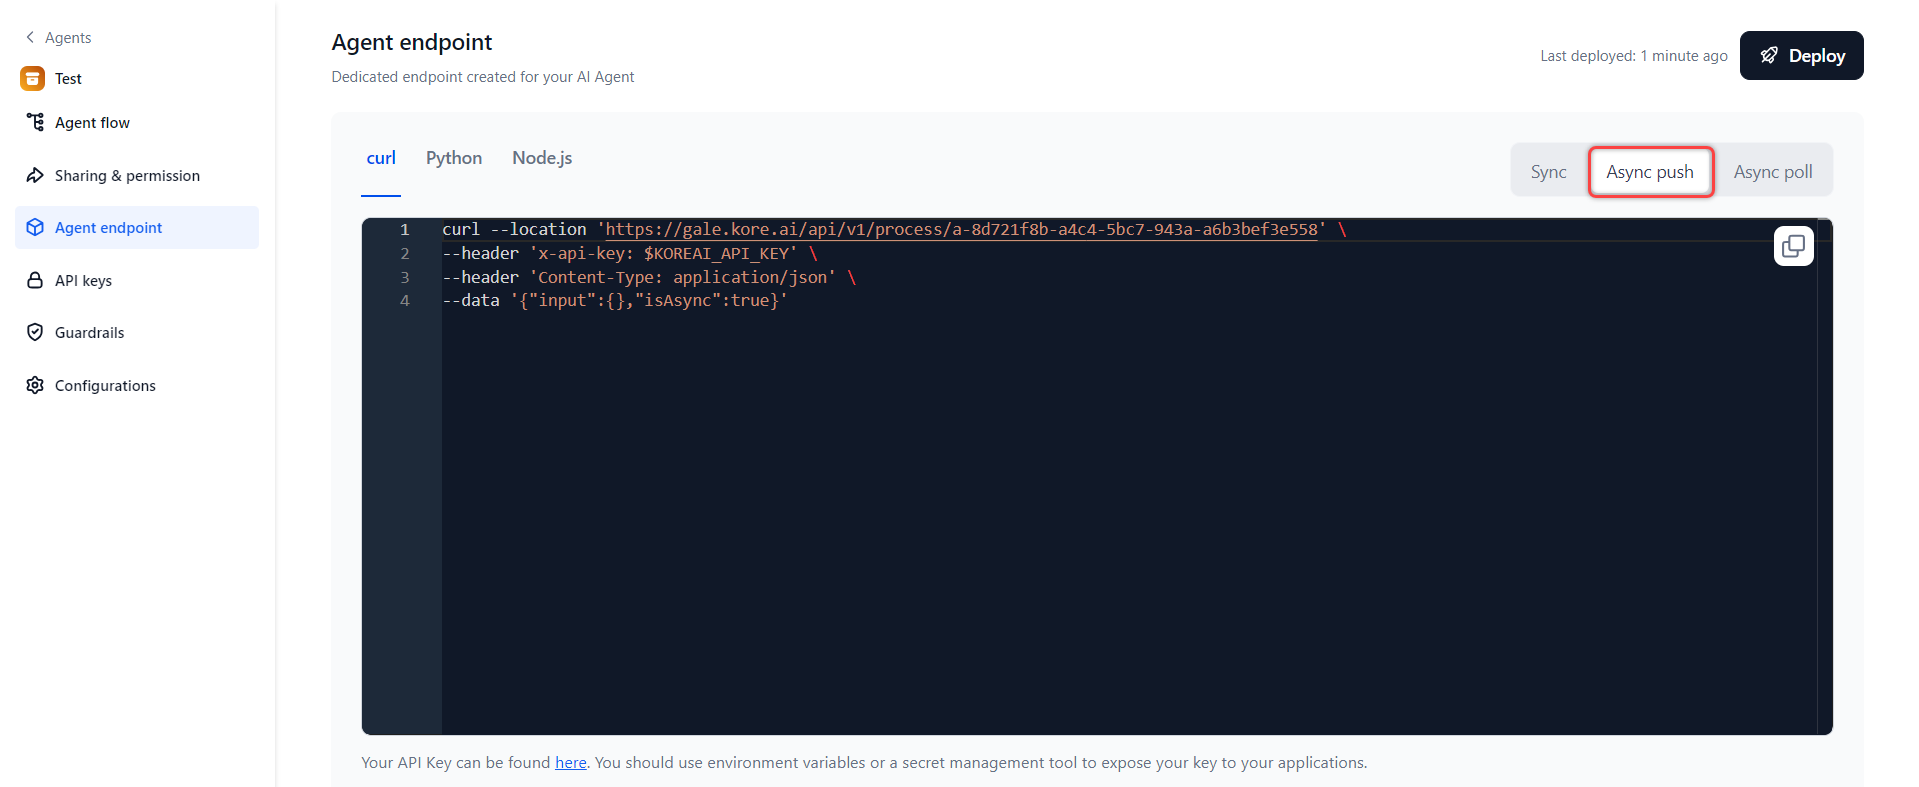
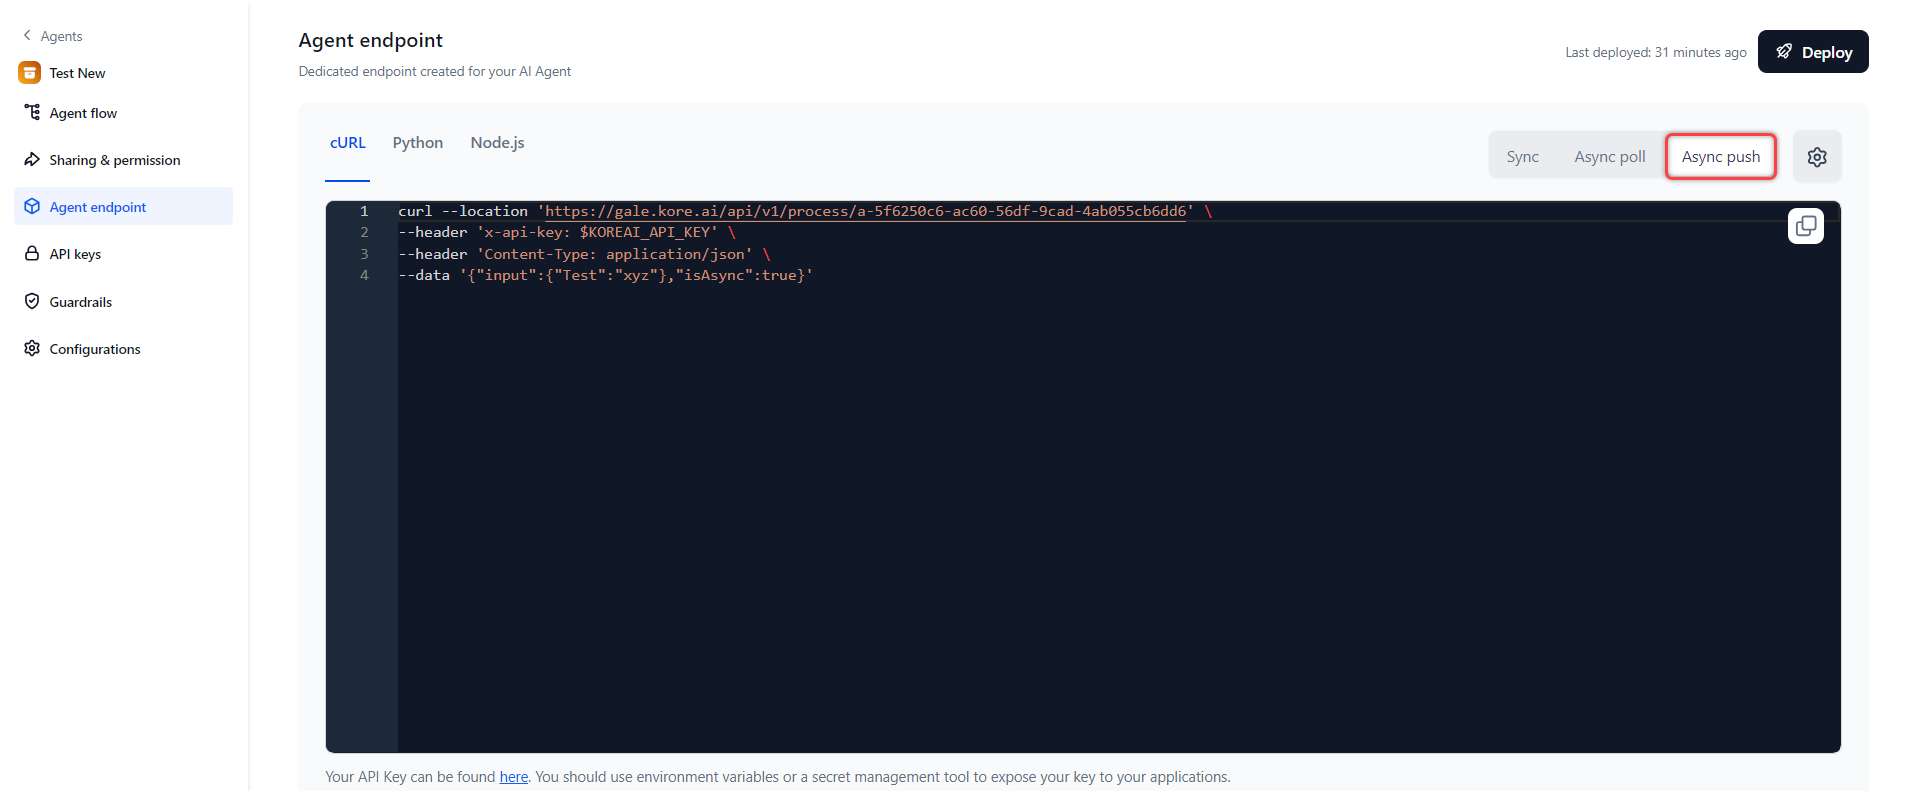
Updates for latest changes  (#49)
* Edited - Create an API Key

* API key generation edited

* Guardrails intro updated

* Guardrails overview edited

* minor edits

* further edits

* minor edits

* minor fixes

* minor edits

* Guardrails about page edits

* Add scanners

* Test Guardrails updated

* Guardrails' test resutls explained

* minor edits

* minor edits

* manage guardrails edited

* About Model's page edited

* Playground overview updated

* anout models and about plauground edited

* model settings

* updates

* format

* toc

* Administration changed to Settings

* few more

* updated home page

* Home page

* few more

* updated home page

* updated

* minor edits on home

* Minor edits

* monir edits

* minor edits to the home page

* minor edits to the home page

* updated properties of the div

* updated styles

* style update to home page

* frame size on the home page

* update

* commit: invite user edits

* update

* About models page learn more link updated

* home page changes

* Models deeper overview pages remvoed

* Agents pages updated based on the feedback

* minor edits

* copy of intro page

* updated video tag

* video tag

* video frame

* minor edits

* learn more link placement fixed

* v2

* edit

* broken link fixed

* path to agent flow

* configure agent

* agent configuration minor edits

* agent configurations

* Playground edits

* manage datasets

* edits

* Manage data

* intro page updated

* update

* images

* commit: added settings page content
[…]

diff --git a/docs/gale/agents/deploy-an-agent.md b/docs/gale/agents/deploy-an-agent.md
@@ -1,34 +1,56 @@
 # Deploy an Agent
 
-GALE supports both synchronous and asynchronous modes of agent deployment.
+GALE supports both synchronous and asynchronous agent deployment modes.
 
 !!! Note
 
     Before deploying the agent, you must fix any errors or warnings in the Agent Flow.
 
- Steps to deploy an agent and get its endpoint in synchronous mode:
+## Synchronous Endpoint
 
-1. Click **Agent endpoint** in the left navigation.  
-<img src="../images/agents-endpoint.png" alt="Deployed Version" title="Deployed Version" style="border: 1px solid gray; zoom:80%;">
+A synchronous endpoint handles requests and responses immediately and sequentially. The client waits for the server to process the request and return a response before proceeding. This approach is suitable for real-time operations requiring immediate response.
 
-2. Click **Deploy**. By default, the agent is deployed in Sync (Synchronous) mode. After the deployment, you can see the dedicated API endpoint created for your agent. The API endpoint is available in the following formats: **curl**, **Python**, and **Node.js**. You can copy the code and use it as needed.  
-<img src="../images/sync-agent-endpoint.png" alt="Sync" title="Sync" style="border: 1px solid gray; zoom:80%;">
+## Asynchronous Push and Poll Endpoints
 
-3. If you want to change the deployment mode to Async (Asynchronous), click the **Async** option on the page and then click **Configure**.  
-<img src="../images/configure-button.png" alt="Configure Button" title="Configure Button" style="border: 1px solid gray; zoom:80%;">
+Push endpoints actively send data to the client, while poll endpoints require the client to retrieve the data on their own. The key difference between asynchronous push and poll endpoints is how the response data is delivered to the client.
 
-4. In the Configure asynchronous mode dialog, enter the URL of the external application and the access token generated by the application and click **Save**.  
-<img src="../images/configure-asynchronous-mode-popup.png" alt="Configure Asynchronous Mode" title="Configure Asynchronous Mode" style="border: 1px solid gray; zoom:60%;">
+### Asynchronous Push Endpoints
 
-5. If you have changed the mode, you must redeploy the agents. Click **Deploy** to do so.  
-<img src="../images/deploy-button.png" alt="Deploy Button" title="Deploy Button" style="border: 1px solid gray; zoom:80%;">
+* The integration "pushes" the response data to the client as soon as it becomes available.
+* This allows the client to receive updates in real-time or near real-time.
+* The client sets up a webhook or other mechanism to receive the pushed data.
+* Useful for integrations where the client needs to be notified of changes immediately.
 
-6. Click **Confirm**.  
-<img src="../images/deploy-confirmation.png" alt="Deploy Confirmation" title="Deploy Confirmation" style="border: 1px solid gray; zoom:60%;">
+### Asynchronous Poll Endpoints
 
-7. The **Async push** and **Async poll** endpoints are generated.  
-<img src="../images/async-push-endpoint.png" alt="Async Push Endpoint" title="Existing Push Endpoint" style="border: 1px solid gray; zoom:80%;">  
-<img src="../images/async-poll-endpoint.png" alt="Async Poll Endpoint" title="Async Poll Endpoint" style="border: 1px solid gray; zoom:80%;">
+* The client "polls" or periodically checks the integration to fetch the response data.
+* The client initiates the requests to retrieve the data on their schedule.
+* The client is responsible for checking for new data rather than waiting for it to be pushed.
+* Useful for integrations where the client only needs to check for updates at specific intervals.
+
+## Deploy an Agent
+
+Steps to deploy an agent:
+
+1. On the **Agents** tab, click the name of the agent that you want to deploy and then click **Agent endpoint** in the left navigation.
+2. The Agent endpoint page is displayed. Click **Deploy**.  
+<img src="../images/deploy-enpoint-page.png" alt="Deploy Button" title="Deploy Button" style="border: 1px solid gray; zoom:70%;">
+
+3. The agent is deployed and the **Sync** and **Async poll** endpoints are generated.  
+<img src="../images/sync-async-poll.gif" alt="Sync Async Poll" title="Sync Async Poll" style="border: 1px solid gray; zoom:70%;">
+
+4. If you want to generate an Async push endpoint for the agent, do the following:
+    1. Click the **Async push** tab and click **Enable**/**Settings**.  
+    <img src="../images/enable-settings.png" alt="Enable/Settings" title="Enable/Settings" style="border: 1px solid gray; zoom:70%;">
+
+    2. The **Sync/Async mode setup** pop-up displays with sync mode disabled by default. Enter the Synchronous mode timeout duration: The allowed range is 60 to 300 seconds (5 minutes). The default is 180 Seconds (3 minutes).
+    3. Turn on the **Enable async** toggle to configure the asynchronous mode. Provide a URL, an access token, and the asynchronous mode timeout duration. The allowed timeout range is 60 seconds to 24 hours (86,400 seconds). The default is 180 Seconds (3 minutes).  
+    <img src="../images/async-mode-configuration.png" alt="Deploy Button" title="Deploy Button" style="border: 1px solid gray; zoom:60%;">
+
+    4. Click **Save**. The async push endpoint is created.  
+    <img src="../images/async-push-endpoint.png" alt="Deploy Button" title="Deploy Button" style="border: 1px solid gray; zoom:70%;">
+
+
 
 ## Redeploy an Agent for the Changes in the Flow
 

diff --git a/docs/gale/agents/agents-flows/types-of-nodes/api-node.md b/docs/gale/agents/agents-flows/types-of-nodes/api-node.md
@@ -27,9 +27,13 @@ Steps to add and configure the node:
 
         The node will trigger a timeout error if the request is not completed within the selected time frame.
 
-        !!! Note
 
-            The key difference between synchronous and asynchronous integration types is how the integration processes the request and response. Synchronous integrations block the client until the response is received, while asynchronous integrations allow the client to continue working while the integration processes the request.
+        !!! Note "Notes"
+
+            * The key difference between synchronous and asynchronous integration types is how the integration processes the request and response. Synchronous integrations block the client until the response is received, while asynchronous integrations allow the client to continue working while the integration processes the request.
+            
+            * Timeout precedence: Agent timeout > Node timeout > Third-party API endpoint timeout.
+
 
     * **Request Definition**: Define the details of the service request to make the call and fetch the data. Click **Define Request** and enter or select the following details in the Edit Request dialog box:  
     <img src="../images/api-node-edit-request.png" alt="Go to Flow Canvas" title="Go to Flow Canvas" style="border: 1px solid gray; zoom:80%;">

diff --git a/docs/gale/agents/configure-an-agent.md b/docs/gale/agents/configure-an-agent.md
@@ -17,6 +17,10 @@ Steps to enable and configure the asynchronous mode:
 3. The Sync/Async mode setup pop-up displays with async mode disabled by default. Enter the Synchronous mode timeout duration: The allowed range is 60 to 300 seconds (5 minutes). The default is 180 Seconds (3 minutes).  
 <img src="../images/sync-mode-timeout.png" alt="Sync Mode Timeout" title="Sync Mode Timeout" style="border: 1px solid gray; zoom:70%;">
 
+    !!! note 
+
+        Timeout precedence: Agent timeout > Node timeout > Model timeout.
+
 4. Turn on the **Enable async** toggle to configure the asynchronous mode if required and click **Save**.
 
     * If you enable the asynchronous mode, provide a URL, an access token, and the asynchronous mode timeout duration. The allowed timeout range is 60 seconds to 24 hours (86,400 seconds). The default is 180 Seconds (3 minutes).  

diff --git a/docs/gale/models/open-source-models/configure-your-open-source-model.md b/docs/gale/models/open-source-models/configure-your-open-source-model.md
@@ -7,9 +7,11 @@ On the Configurations page, you can view the model name, edit the description, a
 
 ## Model Endpoint Timeout
 
-The model endpoint timeout defines the maximum time allowed for a request to complete before terminating the connection. If a request exceeds this time, it fails and triggers a timeout error for the endpoint. You can set the timeout duration between 30 to 180 seconds, with a default of 60 seconds.
+You can configure a specific timeout for your model's endpoint. Enter the timeout duration from the allowed range - 30 to 180 seconds (3 minutes). The default is 60 Seconds (1 minute). If the request is not completed within the specified time frame, a timeout error will be triggered for the endpoint.
 
+!!! note 
 
+    Timeout precedence: Agent timeout > Node timeout > Model timeout.    
 
 ## Undeploy the Model 
 

diff --git a/docs/gale/models/fine-tune-models/configure-your-fine-tuned-model.md b/docs/gale/models/fine-tune-models/configure-your-fine-tuned-model.md
@@ -6,7 +6,11 @@ On the Configurations page, you can edit the model name and description, add tag
 
 ## Model Endpoint Timeout
 
-The model endpoint timeout defines the maximum time allowed for a request to complete before terminating the connection. If a request exceeds this time, it fails and triggers a timeout error for the endpoint. You can set the timeout duration between 30 to 180 seconds, with a default of 60 seconds.
+You can configure a specific timeout for your model's endpoint. Enter the timeout duration from the allowed range - 30 to 180 seconds (3 minutes). The default is 60 Seconds (1 minute). If the request is not completed within the specified time frame, a timeout error will be triggered for the endpoint.
+
+!!! note 
+
+    Timeout precedence: Agent timeout > Node timeout > Model timeout.
 
 
 ## Undeploy the Model 

diff --git a/docs/gale/agents/agents-flows/types-of-nodes/gen-ai-node.md b/docs/gale/agents/agents-flows/types-of-nodes/gen-ai-node.md
@@ -43,6 +43,10 @@ Steps to add and configure the node:
     default is 60 Seconds (1 minute).
     The node will trigger a timeout error if the request is not completed within the selected time frame.
 
+        !!! note 
+
+            Timeout precedence: Agent timeout > Node timeout > Model timeout.
+
     * **Hyperparameters**: Hyperparameters allow you to fine-tune the AI model's behavior to suit your needs. While the default settings work well for most cases, you can adjust them to find the right balance for your use case.
 
         * **Temperature**: Controls the randomness of the model's responses. Higher values lead to more random outputs, while lower values result in more focused outputs.
